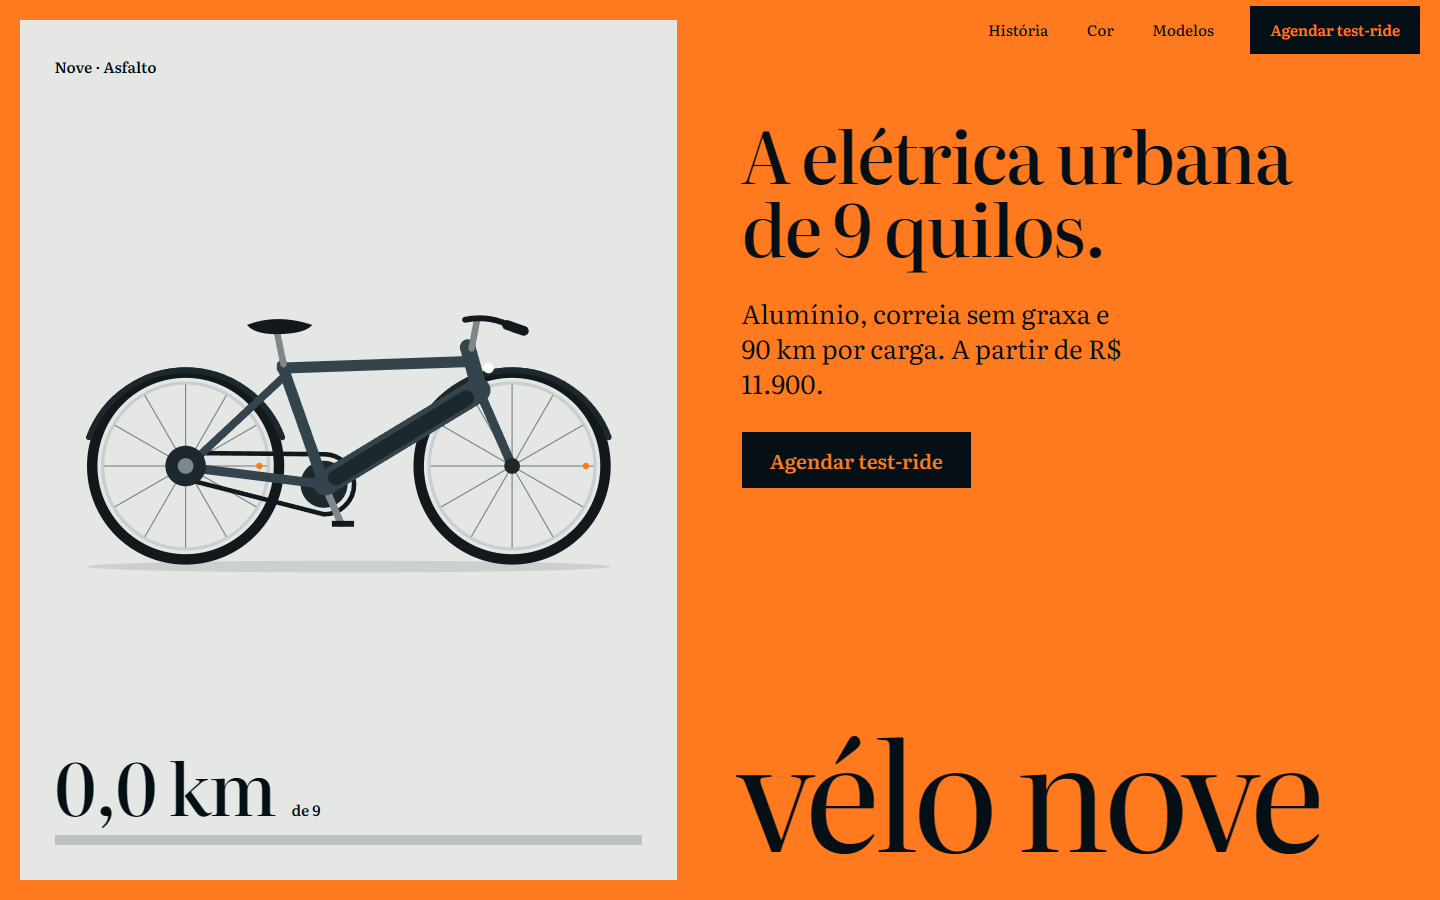
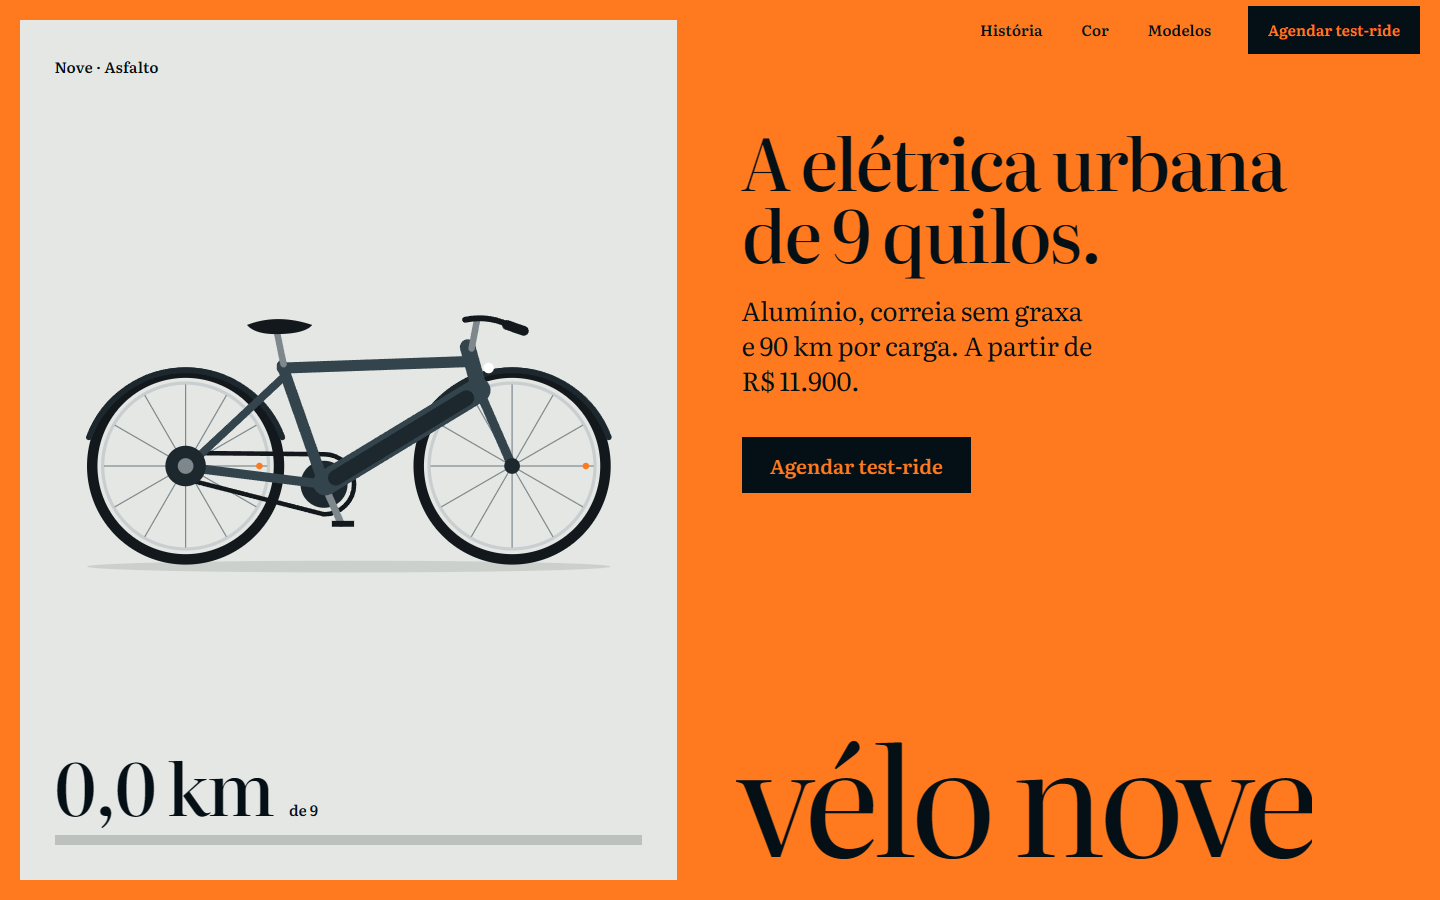
docs: README (3D configurator, layout pass, image briefs, metrics), new preview

diff --git a/README.md b/README.md
@@ -13,7 +13,7 @@ O nome carrega o conceito. *Nove* é o peso (9,4 kg) e é o trajeto (9 km de ida
 ## O que tem
 
 - **História pinada**: quatro capítulos (quadro, motor, bateria, correia). A cada um, a peça acende na bike, a etiqueta aparece e o número principal conta até o valor.
-- **Configurador de cor**: quatro cores, e a bike pinada troca com transição (sai, troca, volta por uma mola interrompível) enquanto o campo atrás muda de tom. Funciona com mouse, toque e setas do teclado.
+- **Configurador de cor com bike 3D**: quando a seção de cor cruza o meio da tela, a bike pinada vira um modelo three.js feito só de primitivas (tubos, rodas raiadas, correia, bateria no tubo inferior, motor no cubo). Arrastar gira 1:1; ao soltar, a velocidade é projetada (fórmula de desaceleração da Apple) e uma mola leva ao ângulo de repouso mais próximo herdando essa velocidade. Pegar a bike no meio do giro para onde ela está. Setas do teclado giram 45°. Trocar de cor anima o material a partir da cor atual (dá pra trocar de novo no meio). A troca 2D↔3D é um cross-fade na vista lateral, onde as duas são iguais.
 - **Comparativo de modelos**: tabela real com três modelos e um controle de km por dia que recalcula "a cada quantos dias recarregar".
 - **CTA de test-ride**: formulário sem backend que abre o e-mail do visitante com o pedido pronto (modelo e cor escolhidos entram junto).
 
@@ -26,9 +26,12 @@ O nome carrega o conceito. *Nove* é o peso (9,4 kg) e é o trajeto (9 km de ida
 - Movimento: rodas giram com o scroll, odômetro e barra de trajeto lineares ao scroll, wordmark que encolhe 7% ao sair da primeira tela, entradas escalonadas (60–80 ms), contagem dos números, foto final com leve zoom.
 - Feedback no toque: `:active` escala o botão na hora do press, não na soltura. Molas próprias (`src/spring.ts`) herdam posição e velocidade ao serem reapontadas, então trocar de cor no meio da transição não dá tranco.
 - `prefers-reduced-motion`: sem deslocamento, sem rotação de roda, sem contagem; o conteúdo continua inteiro.
-- Celular: o pin não cabe (cobriria o texto), então cada capítulo ganha a própria bike.
+- Celular: o pin não cabe (cobriria o texto), então cada capítulo ganha a própria bike (e o configurador, a própria bike 3D).
+- **Passe apple-design** (layout): escala tipográfica com tracking por tamanho (−0,035 em no display, −0,022 em nos títulos, +0,01 em no texto pequeno) e entrelinha inversa ao tamanho; uma escala de espaçamento em `rem` usada por todas as seções; rótulos "1 de 4 · Quadro" para orientação; ficha técnica em grade com filetes; comparativo numa medida centralizada.
+- **Materiais**: o menu é uma camada translúcida (`backdrop-filter`) com o conteúdo passando por baixo, e o cabeçalho da tabela de modelos gruda sob ele com o mesmo material. Com `prefers-reduced-transparency` ou `prefers-contrast: more`, ficam sólidos.
+- **3D sob demanda**: three.js só é baixado (import dinâmico, chunk separado) quando a seção de cor está a uma tela de distância, e o render é sob demanda (nada roda parado). Sem WebGL2 ou com `prefers-reduced-motion`, nada é baixado e fica o SVG.
 
-Medições locais (build de produção, desktop): Lighthouse 99 / 100 / 100 (desempenho, acessibilidade, boas práticas); LCP 1,7 s, CLS 0, TBT 40 ms.
+Medições locais (build de produção, Lighthouse 13): desktop 100 / 100 / 100 / 100 (desempenho, acessibilidade, boas práticas, SEO), LCP 0,2 s, CLS 0,001, TBT 0 ms; mobile 99 / 100 / 100 / 100, LCP 1,7 s, TBT 40 ms.
 
 ## Componentes React Bits
 
@@ -47,7 +50,7 @@ Edições locais: `BlurText` usa `<span>` na raiz (para viver dentro do `<h2>`),
 
 ## Stack
 
-React 19 · TypeScript · Vite · CSS puro (tokens em variáveis) · `@fontsource-variable/literata` · `motion` (exigido pelos componentes React Bits). As molas próprias e o scroll continuam em código local.
+React 19 · TypeScript · Vite · CSS puro (tokens em variáveis) · `@fontsource-variable/literata` · `motion` (exigido pelos componentes React Bits) · `three` (só no chunk do configurador, `src/Bike3D.tsx`). As molas próprias (`src/spring.ts`, com passagem de velocidade) e o scroll continuam em código local.
 
 ## Como rodar
 
@@ -76,11 +79,15 @@ Todas com licença livre, baixadas e comprimidas; os créditos também estão no
 
 As fotos mostram o mundo da bicicleta, nunca o produto: a Vélo Nove só existe como desenho em código.
 
+### Fotos novas (briefs)
+
+`docs/image-briefs.md` descreve cinco fotos que melhorariam o site (caminho, proporção, onde entram e o prompt em inglês). O código já está pronto: coloque o `.webp` em `public/img/` com o nome do brief e rode `npm run build`. O `vite.config.ts` lista a pasta na hora do build e cada foto nova entra com o próprio alt e legenda; se o arquivo não existir, continua a foto atual (sem 404), e o crédito da foto substituída sai do rodapé.
+
 ## Observações
 
 - O e-mail `testride@velonove.example` é um endereço de exemplo; troque antes de qualquer uso real.
 - Especificações, preços e a referência ao limite legal de 32 km/h são conteúdo de exemplo.
-- `docs/preview.png` é gerado por `node scripts/preview.mjs` com Chrome headless via CDP, em tempo real (precisa de `npx vite preview --port 4791` rodando).
+- `docs/preview.png` é gerado por `node scripts/preview.mjs` com Chrome headless via CDP, em tempo real (precisa de `npx vite preview --port 4791` rodando). Aceita `W`/`H` (viewport), `FULL=1` (página inteira) e um seletor no lugar do scroll, por exemplo `W=390 H=844 node scripts/preview.mjs http://localhost:4791/ shot.png '#cor'`.
 
 ## Licença
 
